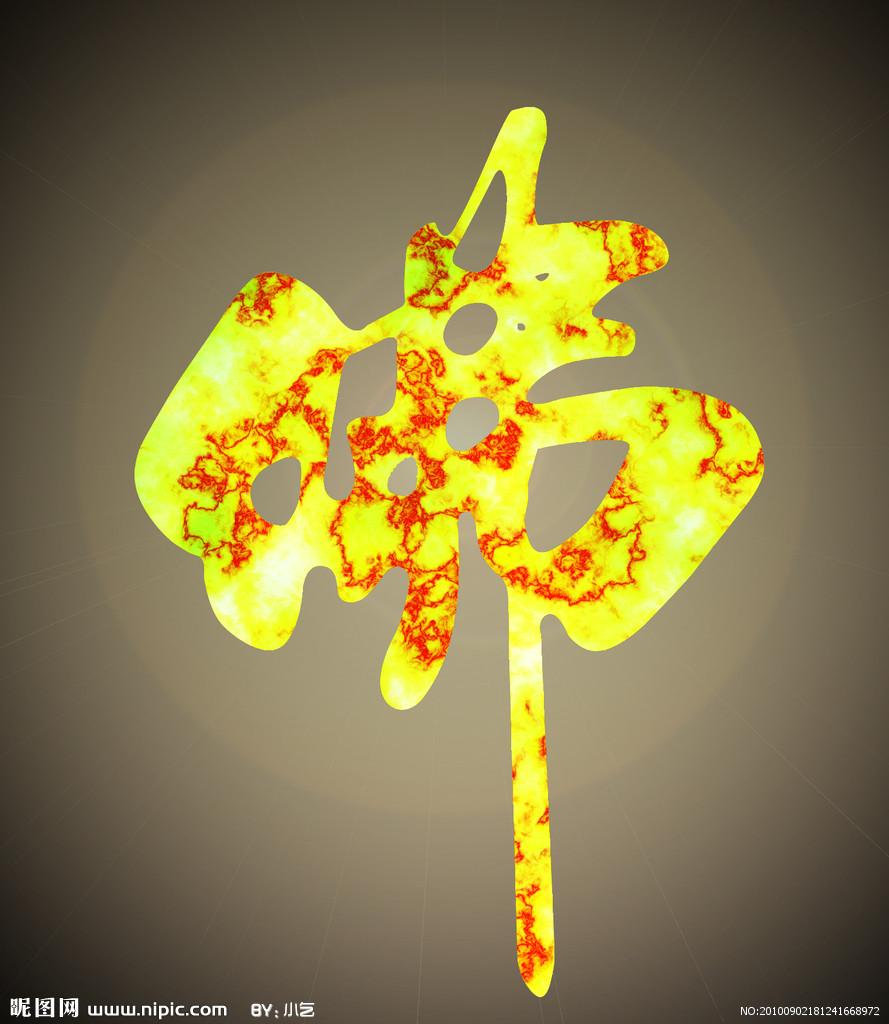
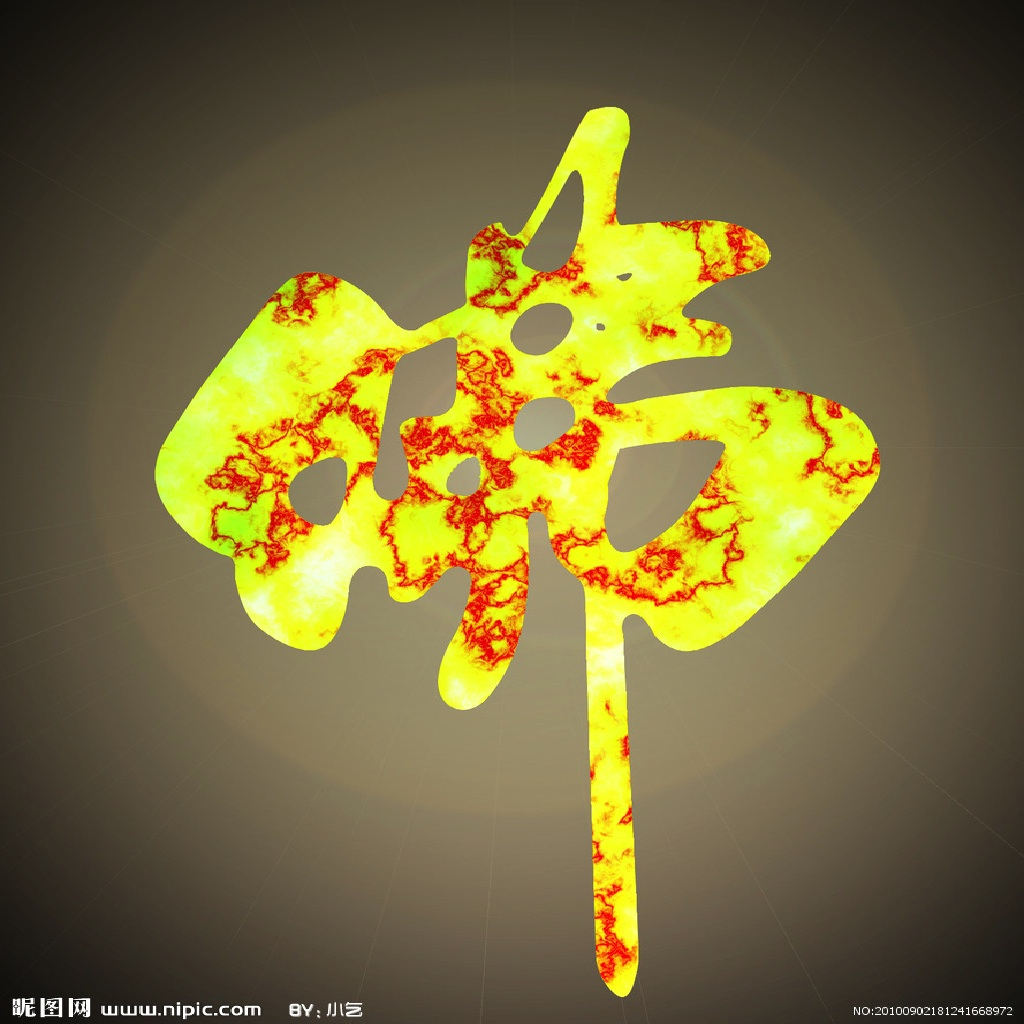
show background texture

diff --git a/baifo/GLGravityView.m b/baifo/GLGravityView.m
@@ -80,6 +80,8 @@
 	return self;
 }
 
+GLuint spriteTexture;
+
 	
 -(void)setupView
 {
@@ -111,10 +113,16 @@
 	//Configure OpenGL arrays
 	glEnableClientState(GL_VERTEX_ARRAY);
 	glEnableClientState(GL_NORMAL_ARRAY);
+    glEnableClientState(GL_TEXTURE_COORD_ARRAY);
 	//glVertexPointer(3 ,GL_FLOAT, 0, fo_vertices);
 	//glNormalPointer(GL_FLOAT, 0, fo_normals);
 	glEnable(GL_NORMALIZE);
-
+    glEnable(GL_TEXTURE_2D);
+    // Set a blending function to use
+    glBlendFunc(GL_ONE, GL_ONE_MINUS_SRC_ALPHA);
+    // Enable blending
+    glEnable(GL_BLEND);
+    
 	//Set the OpenGL projection matrix
 	glMatrixMode(GL_PROJECTION);
 	size = zNear * tanf(DEGREES_TO_RADIANS(fieldOfView) / 2.0);
@@ -124,11 +132,76 @@
 	
 	//Make the OpenGL modelview matrix the default
 	glMatrixMode(GL_MODELVIEW);
+    
+    
+    CGImageRef spriteImage;
+	CGContextRef spriteContext;
+	GLubyte *spriteData;
+    size_t	width, height;
+    // Sets up matrices and transforms for OpenGL ES
+	//glViewport(0, 0, backingWidth, backingHeight);
+	//glMatrixMode(GL_PROJECTION);
+	//glLoadIdentity();
+	//glOrthof(-1.0f, 1.0f, -1.5f, 1.5f, -1.0f, 1.0f);
+	//glMatrixMode(GL_MODELVIEW);
+	
+	// Clears the view with black
+	//glClearColor(0.0f, 0.0f, 0.0f, 1.0f);
+	
+    // Creates a Core Graphics image from an image file
+	spriteImage = [UIImage imageNamed:@"background.jpg"].CGImage;
+    width = CGImageGetWidth(spriteImage);
+	height = CGImageGetHeight(spriteImage);
+    if(spriteImage) {
+		// Allocated memory needed for the bitmap context
+		spriteData = (GLubyte *) calloc(width * height * 4, sizeof(GLubyte));
+		// Uses the bitmap creation function provided by the Core Graphics framework.
+		spriteContext = CGBitmapContextCreate(spriteData, width, height, 8, width * 4, CGImageGetColorSpace(spriteImage), kCGImageAlphaPremultipliedLast);
+		// After you create the context, you can draw the sprite image to the context.
+		CGContextDrawImage(spriteContext, CGRectMake(0.0, 0.0, (CGFloat)width, (CGFloat)height), spriteImage);
+		// You don't need the context at this point, so you need to release it to avoid memory leaks.
+		CGContextRelease(spriteContext);
+        
+		// Use OpenGL ES to generate a name for the texture.
+		glGenTextures(1, &spriteTexture);
+		// Bind the texture name.
+		glBindTexture(GL_TEXTURE_2D, spriteTexture);
+		// Set the texture parameters to use a minifying filter and a linear filer (weighted average)
+		glTexParameteri(GL_TEXTURE_2D, GL_TEXTURE_MIN_FILTER, GL_LINEAR);
+		// Specify a 2D texture image, providing the a pointer to the image data in memory
+		glTexImage2D(GL_TEXTURE_2D, 0, GL_RGBA, width, height, 0, GL_RGBA, GL_UNSIGNED_BYTE, spriteData);
+		// Release the image data
+		free(spriteData);
+		
+		// Enable use of the texture
+		glEnable(GL_TEXTURE_2D);
+	}
 }
 
 
 float t = 0;
 int flash = 0;
+const GLfloat xBG = 1.16;
+const GLfloat yBG = 1.68;
+
+const GLfloat squareVertices[] = {
+    -xBG, -yBG, -2.0f,
+    xBG, -yBG, -2.0f,
+    -xBG, yBG, -2.0f,
+    xBG, yBG, -2.0f,
+};
+const GLfloat squareNormals[] = {
+    0.0f, 0.0f, +1.0f,
+    0.0f, 0.0f, +1.0f,
+    0.0f, 0.0f, +1.0f,
+    0.0f, 0.0f, +1.0f,
+};
+const GLfloat squareTextures[] = {
+    0.0f, 1.0f,
+    1.0f, 1.0f,
+    0.0f, 0.0f,
+    1.0f, 0.0f,
+};
 
 // Updates the OpenGL view
 - (void)drawView
@@ -195,8 +268,22 @@ int flash = 0;
 	glBindFramebufferOES(GL_FRAMEBUFFER_OES, viewFramebuffer);
 	glClearColor(colorR, colorG, colorB, 1.0f);
 	glClear(GL_COLOR_BUFFER_BIT | GL_DEPTH_BUFFER_BIT);
+    
+    
+    //draw background
+    glLoadIdentity();
+    
+	glScalef(kTeapotScale, kTeapotScale, kTeapotScale);
+    // Here's where the data is now
+    glVertexPointer(3, GL_FLOAT,0, squareVertices);
+    glNormalPointer(GL_FLOAT, 0, squareNormals);
+    glTexCoordPointer(2, GL_FLOAT, 0, squareTextures);
+    glBindTexture(GL_TEXTURE_2D, spriteTexture);
+    glDrawArrays(GL_TRIANGLE_STRIP, 0, 4);
+    
 	//Setup model view matrix
 	glLoadIdentity();
+    
 	glTranslatef(0.0, -0.0, -3.0);
 	glScalef(kTeapotScale, kTeapotScale, kTeapotScale);
 		
@@ -208,19 +295,7 @@ int flash = 0;
     glRotatef(z*180/PI,0,0,-1);
     glTranslatef(0,0,0.1);
     //glRotatef(-90,-1,0,0);
-
-
     
-	// Draw teapot. The new_teapot_indicies array is an RLE (run-length encoded) version of the teapot_indices array in teapot.h
-	//for(int i = 0; i < num_fo_indicies; i ++)
-	//{
-	//	glDrawElements(GL_TRIANGLE_STRIP, 3, GL_UNSIGNED_SHORT, &fo_indicies[i]);
-	//}
-    // Use vertices, normals, and texture coordinates
-    glEnableClientState(GL_VERTEX_ARRAY);
-    glEnableClientState(GL_NORMAL_ARRAY);
-    glEnableClientState(GL_TEXTURE_COORD_ARRAY);
-
     switch(modelIndexCurrent)
     {
         default:
@@ -229,7 +304,7 @@ int flash = 0;
             glVertexPointer(3, GL_FLOAT,0, vVerts_1);
             glNormalPointer(GL_FLOAT, 0, vNorms_1);
             glTexCoordPointer(2, GL_FLOAT, 0, vText_1);
-            
+            glBindTexture(GL_TEXTURE_2D, 2);
             // Draw them
             glDrawElements(GL_TRIANGLES, sizeof(uiIndexes_1)/sizeof(uiIndexes_1[0]), GL_UNSIGNED_SHORT, uiIndexes_1);
             
@@ -239,13 +314,16 @@ int flash = 0;
             glVertexPointer(3, GL_FLOAT,0, vVerts_2);
             glNormalPointer(GL_FLOAT, 0, vNorms_2);
             glTexCoordPointer(2, GL_FLOAT, 0, vText_2);
-            
+            glBindTexture(GL_TEXTURE_2D, 3);
             // Draw them
             glDrawElements(GL_TRIANGLES, sizeof(uiIndexes_2)/sizeof(uiIndexes_2[0]), GL_UNSIGNED_SHORT, uiIndexes_2);
             
             break;
     }
- 
+
+    
+    
+    
 	glBindRenderbufferOES(GL_RENDERBUFFER_OES, viewRenderbuffer);
 	[context presentRenderbuffer:GL_RENDERBUFFER_OES];
 }

diff --git a/baifo/MotionDetection.m b/baifo/MotionDetection.m
@@ -20,7 +20,7 @@ int hit;
 
 bool InMotion1(float pitch, float roll, float yaw)
 {
-    return (-0.3 < roll && roll < 0.3);
+    return (-0.4 < roll && roll < 0.4);
 }
 
 void ProcessMotion1(float pitch, float roll, float yaw)
@@ -50,7 +50,7 @@ bool IsMotion1Completed()
 
 bool InMotion2(float pitch, float roll, float yaw)
 {
-    return (-0.3 < pitch && pitch < 0.3);
+    return (-0.4 < pitch && pitch < 0.4);
 }
 
 void ProcessMotion2(float pitch, float roll, float yaw)
@@ -79,7 +79,7 @@ bool IsMotion2Completed()
 
 bool InMotion3(float pitch, float roll, float yaw)
 {
-    return ((PI/2-0.4 < roll && roll < PI/2+0.4)||(-PI/2-0.4 < roll && roll < -PI/2+0.4));
+    return ((PI/2-0.5 < roll && roll < PI/2+0.5)||(-PI/2-0.5 < roll && roll < -PI/2+0.5));
 }
 
 void ProcessMotion3(float pitch, float roll, float yaw)

diff --git a/baifo/BFViewController.m b/baifo/BFViewController.m
@@ -131,7 +131,7 @@
     {
         [WebAPIClient optInDevice];
         NSString* temp = [WebAPIClient numberOfOnlineUsers];
-        NSString* onlineCount = [temp substringToIndex:10];
+        NSString* onlineCount = [temp substringToIndex:MIN(temp.length, 10)];
         if (![onlineCount isEqualToString:@""])
         {
             dispatch_async(dispatch_get_main_queue(), ^
